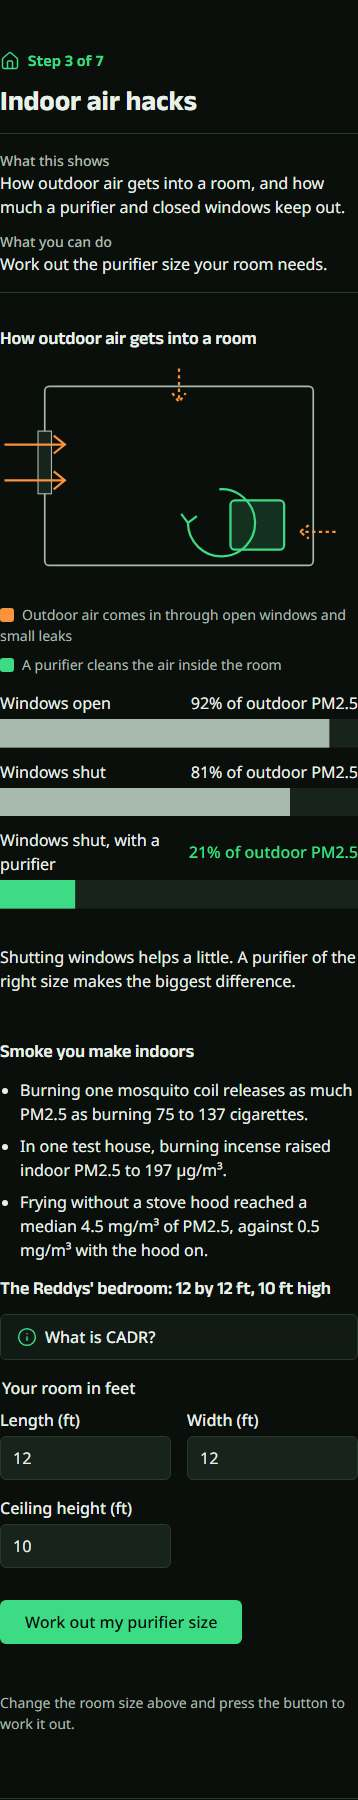
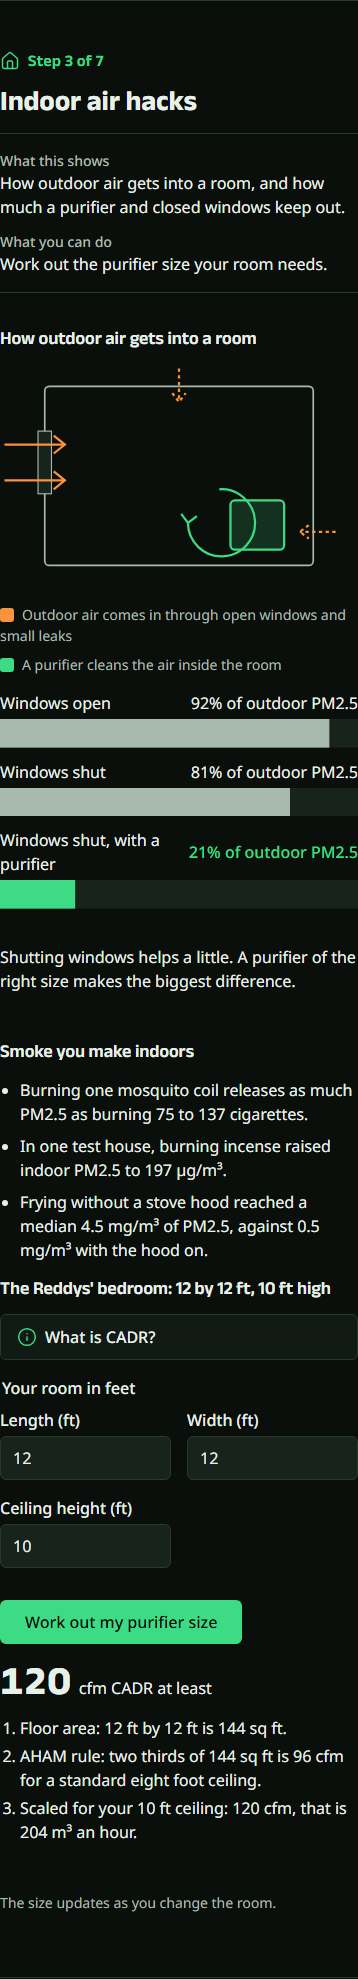
fix: chart window markers, instant purifier result, compact phone header
- Forecast chart (home and Today): the cleanest and dirtiest windows are
  outlined over their bars and bracketed above them with a label in words,
  in --accent and the dirtiest-window colour, matching the legend keys.
  The labels sit on separate rows so they never overlap. The markers never
  showed before: the window and forecast times were compared as strings
  ("...:00.000Z" against "...:00Z"); they are now matched by instant. The
  chart now scales evenly so the labels are not stretched.
- Purifier calculator: the result for the default room (the Reddys' 12 by
  12 ft bedroom, 10 ft ceiling) shows as soon as the section loads and
  updates as the inputs change; the button stays for keyboard users.
- Phone header (400 px and below): the wordmark, a compact language menu
  and a short "My plan" button stay on one row in en, hi and te.
- Playwright checks the markers and labels, the instant and live result,
  and the one-row header at 390 and 320 px in all three languages.
  Retook the routine and indoor screenshots and added phone header shots.
- No number, factor or formula changed.

diff --git a/src/client/ui/diagrams/forecast.ts b/src/client/ui/diagrams/forecast.ts
@@ -1,5 +1,6 @@
 // forecast.ts: The hourly PM2.5 forecast as a bar chart, with the cleanest and dirtiest windows
-// marked. The SVG is aria-hidden; the caption and the window lines beside it say the same in words.
+// outlined on the bars and bracketed above them with a label in words. The SVG is aria-hidden;
+// the caption and the window lines below it say the same in words.
 import type { NormalisedHourlyForecastItem } from "../../../shared/air-types.js";
 import { escapeHtml } from "../../../shared/escape.js";
 import type { WindowResult } from "../../../shared/impact.js";
@@ -9,10 +10,41 @@ import { bandForAqi } from "./bands.js";
 
 const KOLKATA_OFFSET_MS = 5.5 * 3600 * 1000;
 const W = 480;
-const H = 160;
+// Two label rows, so the two labels never overlap even when the windows are close.
+const ROW_H = 24;
+const LABEL_H = ROW_H * 2 + 6;
+const BARS_H = 150;
+const H = LABEL_H + BARS_H;
 
 const localHour = (iso: string) =>
   new Date(new Date(iso).getTime() + KOLKATA_OFFSET_MS).getUTCHours();
+
+/** Outline over the window's bars, and a bracket with a label above them. */
+function windowMarker(
+  w: WindowResult | null,
+  hours: readonly NormalisedHourlyForecastItem[],
+  slot: number,
+  kind: "clean" | "dirty",
+  label: string,
+): string {
+  if (!w) return "";
+  // Match on the instant: the forecast and the window format the same time differently.
+  const startMs = new Date(w.startTime).getTime();
+  const start = hours.findIndex((h) => new Date(h.time).getTime() === startMs);
+  if (start < 0) return "";
+  const span = Math.round((new Date(w.endTime).getTime() - startMs) / 3_600_000);
+  const x1 = start * slot;
+  const x2 = Math.min(W, (start + span) * slot);
+  const mid = (x1 + x2) / 2;
+  const anchor = mid < 70 ? "start" : mid > W - 70 ? "end" : "middle";
+  const tx = anchor === "start" ? x1 : anchor === "end" ? x2 : mid;
+  // Cleanest on the top row, dirtiest on the second; each bracket sits under its own label.
+  const y = (kind === "clean" ? ROW_H : ROW_H * 2) - 2;
+  return `
+    <rect class="d-window-${kind}" x="${x1.toFixed(1)}" y="${LABEL_H}" width="${(x2 - x1).toFixed(1)}" height="${BARS_H}" />
+    <path class="d-bracket-${kind}" d="M${x1.toFixed(1)} ${y + 6} V${y} H${x2.toFixed(1)} V${y + 6}" />
+    <text class="d-label-${kind}" x="${tx.toFixed(1)}" y="${y - 6}" text-anchor="${anchor}">${escapeHtml(label)}</text>`;
+}
 
 export function forecastChartHtml(
   hourly: readonly NormalisedHourlyForecastItem[],
@@ -24,43 +56,29 @@ export function forecastChartHtml(
   if (hours.length === 0) return `<p class="muted">${escapeHtml(t("today.noWindow"))}</p>`;
   const max = Math.max(...hours.map((h) => h.pm25), 1);
   const slot = W / hours.length;
-  const indexOf = (iso: string | undefined) => hours.findIndex((h) => h.time === iso);
-
-  const windowRect = (w: WindowResult | null, cls: string) => {
-    if (!w) return "";
-    const start = indexOf(w.startTime);
-    if (start < 0) return "";
-    const span = Math.round(
-      (new Date(w.endTime).getTime() - new Date(w.startTime).getTime()) / 3_600_000,
-    );
-    return `<rect class="${cls}" x="${(start * slot).toFixed(1)}" y="0" width="${(span * slot).toFixed(1)}" height="${H}" />`;
-  };
 
   const bars = hours
     .map((h, i) => {
-      const height = Math.max(2, (h.pm25 / max) * (H - 8));
+      const height = Math.max(2, (h.pm25 / max) * (BARS_H - 10));
       const band = h.aqi === undefined ? "Satisfactory" : bandForAqi(h.aqi);
       return `<rect class="d-bar ${bandClass(band)}" x="${(i * slot + 1).toFixed(1)}" y="${(H - height).toFixed(1)}" width="${Math.max(1, slot - 2).toFixed(1)}" height="${height.toFixed(1)}" />`;
     })
     .join("");
 
   const ticks = hours
-    .map((h, i) =>
-      i % 6 === 0
-        ? `<span class="tick" data-col="${i}">${hourLabel(localHour(h.time))}</span>`
-        : "",
-    )
+    .map((h, i) => (i % 6 === 0 ? `<span class="tick">${hourLabel(localHour(h.time))}</span>` : ""))
     .join("");
 
   return `
     <figure class="diagram forecast">
       <figcaption class="diagram-title">${escapeHtml(t("forecast.title", { hours: hours.length, pm: "PM2.5" }))}</figcaption>
-      <svg viewBox="0 0 ${W} ${H}" preserveAspectRatio="none" aria-hidden="true" focusable="false" class="forecast-svg">
-        ${windowRect(cleanest, "d-window-clean")}${windowRect(dirtiest, "d-window-dirty")}
+      <svg viewBox="0 0 ${W} ${H}" aria-hidden="true" focusable="false" class="forecast-svg">
         <line class="d-axis" x1="0" y1="${H - 0.5}" x2="${W}" y2="${H - 0.5}" />
         ${bars}
+        ${windowMarker(cleanest, hours, slot, "clean", t("today.cleanest"))}
+        ${windowMarker(dirtiest, hours, slot, "dirty", t("today.dirtiest"))}
       </svg>
-      <div class="forecast-ticks" aria-hidden="true" data-cols="${hours.length}">${ticks}</div>
+      <div class="forecast-ticks" aria-hidden="true">${ticks}</div>
       <ul class="forecast-legend">
         <li><span class="legend-key key-clean" aria-hidden="true"></span>${escapeHtml(t("today.cleanest"))}: <strong class="tabular-nums">${escapeHtml(windowText(cleanest) ?? t("today.noWindow"))}</strong></li>
         <li><span class="legend-key key-dirty" aria-hidden="true"></span>${escapeHtml(t("today.dirtiest"))}: <strong class="tabular-nums">${escapeHtml(windowText(dirtiest) ?? t("today.noWindow"))}</strong></li>

diff --git a/test/e2e/polish.spec.ts b/test/e2e/polish.spec.ts
@@ -1,0 +1,93 @@
+import { expect, openDemoFamily, test } from "./fixtures";
+
+test.describe("Chart window markers", () => {
+  test("home and Today outline and label the cleanest and dirtiest windows on the chart", async ({
+    page,
+  }) => {
+    for (const open of [
+      async () => {
+        await page.goto("/");
+        await page.waitForSelector("#routine .forecast-svg");
+      },
+      async () => openDemoFamily(page),
+    ]) {
+      await open();
+      const chart = page.locator(".forecast").first();
+      await expect(chart.locator(".d-window-clean")).toHaveCount(1);
+      await expect(chart.locator(".d-window-dirty")).toHaveCount(1);
+      await expect(chart.locator(".d-bracket-clean")).toHaveCount(1);
+      await expect(chart.locator(".d-label-clean")).toHaveText("Cleanest hours");
+      await expect(chart.locator(".d-label-dirty")).toHaveText("Dirtiest hours");
+      // The outline sits over real bars: it has width, and the legend words match the labels.
+      const width = Number(await chart.locator(".d-window-clean").getAttribute("width"));
+      expect(width).toBeGreaterThan(0);
+      await expect(chart.locator(".forecast-legend")).toContainText("Cleanest hours");
+    }
+  });
+});
+
+test.describe("Instant purifier result", () => {
+  test("shows the default room's size on load and updates as the inputs change", async ({
+    page,
+  }) => {
+    await page.goto("/");
+    await page.waitForSelector("#home-calc-result");
+    const result = page.locator("#home-calc-result");
+    // The Reddys' 12 by 12 ft bedroom with a 10 ft ceiling: 2/3 x 144 x 10/8 = 120 cfm.
+    await expect(result.locator(".big-number")).toHaveText("120");
+    await page.locator("#home-width").fill("15"); // 2/3 x 180 x 10/8 = 150
+    await expect(result.locator(".big-number")).toHaveText("150");
+    await page.locator("#home-height").fill("8"); // 2/3 x 180 = 120
+    await expect(result.locator(".big-number")).toHaveText("120");
+    await expect(page.locator("#home-calc-go")).toBeVisible();
+  });
+});
+
+test.describe("Compact phone header", () => {
+  for (const width of [390, 320]) {
+    for (const lang of ["en", "hi", "te"]) {
+      test(`${width} px, ${lang}: wordmark, language menu and plan button on one row`, async ({
+        page,
+      }) => {
+        await page.setViewportSize({ width, height: 800 });
+        await page.goto(`/?lang=${lang}`);
+        await page.waitForSelector("#start .g-title");
+        const boxes = await page.evaluate(() => {
+          const box = (sel: string) => {
+            const el = document.querySelector<HTMLElement>(sel);
+            if (!el || el.offsetParent === null) return null;
+            const r = el.getBoundingClientRect();
+            return { top: r.top, bottom: r.bottom, right: r.right };
+          };
+          return {
+            brand: box(".brand-wordmark"),
+            select: box("#lang-select"),
+            plan: box(".header-plan"),
+            buttons: box(".lang-switch"),
+            header: box(".site-header"),
+            vw: document.documentElement.clientWidth,
+          };
+        });
+        expect(boxes.select, "language menu shown").not.toBeNull();
+        expect(boxes.buttons, "language buttons hidden").toBeNull();
+        const rows = [boxes.brand, boxes.select, boxes.plan].map((b) => b?.top ?? -1);
+        const tallest = Math.max(
+          ...[boxes.brand, boxes.select, boxes.plan].map((b) => (b?.bottom ?? 0) - (b?.top ?? 0)),
+        );
+        // One row: every item starts within one item's height of the others, and none spills off screen.
+        expect(Math.max(...rows) - Math.min(...rows)).toBeLessThan(tallest);
+        expect(boxes.plan?.right ?? 0).toBeLessThanOrEqual(boxes.vw);
+        expect((boxes.header?.bottom ?? 0) - (boxes.header?.top ?? 0)).toBeLessThan(80);
+      });
+    }
+  }
+
+  test("the language menu switches the page language", async ({ page }) => {
+    await page.setViewportSize({ width: 390, height: 800 });
+    await page.goto("/");
+    await page.waitForSelector("#start .g-title");
+    await page.locator("#lang-select").selectOption("te");
+    await expect(page.locator("html")).toHaveAttribute("lang", "te");
+    await expect(page.locator("#lang-select")).toHaveValue("te");
+  });
+});

diff --git a/src/client/home/chrome.ts b/src/client/home/chrome.ts
@@ -9,12 +9,18 @@ export function renderHeader(): string {
       <div class="container header-inner">
         <a href="/" class="brand-wordmark">${escapeHtml(t("app.title"))}</a>
         <div class="header-actions">
+          <label class="sr-only" for="lang-select">${escapeHtml(t("header.language"))}</label>
+          <select id="lang-select" class="lang-select">
+            <option value="en" lang="en">English</option>
+            <option value="hi" lang="hi">हिन्दी</option>
+            <option value="te" lang="te">తెలుగు</option>
+          </select>
           <nav class="lang-switch" aria-label="${escapeHtml(t("header.language"))}">
             <button class="lang-btn" data-lang="en" lang="en" type="button">English</button>
             <button class="lang-btn" data-lang="hi" lang="hi" type="button">हिन्दी</button>
             <button class="lang-btn" data-lang="te" lang="te" type="button">తెలుగు</button>
           </nav>
-          <a href="#/setup" class="btn btn-primary btn-compact">${escapeHtml(t("header.planMyDay"))}</a>
+          <a href="#/setup" class="btn btn-primary btn-compact header-plan"><span class="label-long">${escapeHtml(t("header.planMyDay"))}</span><span class="label-short">${escapeHtml(t("header.planShort"))}</span></a>
         </div>
       </div>
     </header>`;
@@ -36,7 +42,7 @@ export function renderFooter(): string {
 }
 
 /**
- * Marks the current language and re-renders on a switch. The skip link moves focus to main
+ * Marks the current language (buttons, or the menu on phones) and re-renders on a switch. The skip link moves focus to main
  * without changing the hash route.
  */
 export function attachChrome(onLanguageChange: () => void): void {
@@ -49,6 +55,15 @@ export function attachChrome(onLanguageChange: () => void): void {
     }
     btn.addEventListener("click", async () => {
       await setLanguage(lang);
+      onLanguageChange();
+    });
+  }
+  // The compact language menu on phones.
+  const select = document.querySelector<HTMLSelectElement>("#lang-select");
+  if (select) {
+    select.value = current;
+    select.addEventListener("change", async () => {
+      await setLanguage(select.value as SupportedLang);
       onLanguageChange();
     });
   }

diff --git a/src/client/ui/calculator.ts b/src/client/ui/calculator.ts
@@ -31,7 +31,7 @@ export function calculatorHtml(prefix: string, room: RoomDefaults): string {
         ${numberField(`${prefix}-height`, t("calc.height"), room.heightFt, ROOM_LIMITS.heightMinFt, ROOM_LIMITS.heightMaxFt)}
       </fieldset>
       ${actionButton({ label: t("calc.button"), id: `${prefix}-calc-go`, submit: true })}
-      <div class="calc-result" id="${prefix}-calc-result" role="status" aria-live="polite"></div>
+      <div class="calc-result" id="${prefix}-calc-result" role="status" aria-live="polite">${calculatorResultHtml(room.lengthFt, room.widthFt, room.heightFt)}</div>
     </form>`;
 }
 
@@ -56,7 +56,10 @@ export function calculatorResultHtml(lengthFt: number, widthFt: number, heightFt
     </ol>`;
 }
 
-/** Wires the form: the submit button, or Enter in any field, works out the size and announces it. */
+/**
+ * Wires the form: the result shows for the default room from the start and updates as the inputs
+ * change; the submit button (or Enter) does the same for keyboard users.
+ */
 export function attachCalculator(root: HTMLElement, prefix: string): void {
   const form = root.querySelector<HTMLFormElement>(`#${prefix}-calc`);
   const out = root.querySelector<HTMLElement>(`#${prefix}-calc-result`);
@@ -66,6 +69,7 @@ export function attachCalculator(root: HTMLElement, prefix: string): void {
   const run = () => {
     out.innerHTML = calculatorResultHtml(value("length"), value("width"), value("height"));
   };
+  form.addEventListener("input", run);
   form.addEventListener("submit", (e) => {
     e.preventDefault();
     run();

diff --git a/src/client/styles/layout.css b/src/client/styles/layout.css
@@ -46,6 +46,56 @@
   flex-wrap: wrap;
 }
 
+.lang-select,
+.label-short {
+  display: none;
+}
+
+/* Phones (390 px and below): wordmark, a compact language menu and "Plan my day" on one row. */
+@media (max-width: 400px) {
+  .header-inner {
+    flex-wrap: nowrap;
+    gap: var(--space-8);
+  }
+
+  .brand-wordmark {
+    font-size: var(--text-md);
+  }
+
+  .header-actions {
+    flex-wrap: nowrap;
+    gap: var(--space-8);
+  }
+
+  .lang-switch,
+  .label-long {
+    display: none;
+  }
+
+  .label-short {
+    display: inline;
+  }
+
+  .lang-select {
+    display: block;
+    min-height: var(--tap);
+    max-width: 7.5rem;
+    padding: var(--space-4) var(--space-8);
+    background: var(--surface-2);
+    color: var(--ink);
+    border: 1px solid var(--rule);
+    border-radius: var(--radius);
+    font: inherit;
+    font-size: var(--text-xs);
+  }
+
+  .header-plan {
+    padding: var(--space-8) var(--space-12);
+    font-size: var(--text-xs);
+    white-space: nowrap;
+  }
+}
+
 /* Footer */
 .site-footer {
   border-top: 1px solid var(--rule);

diff --git a/src/client/styles/diagrams.css b/src/client/styles/diagrams.css
@@ -28,21 +28,50 @@
   opacity: 0.85;
 }
 
+/* Window markers: an outline over the window's bars and a labelled bracket above them,
+   in the same colours as the legend keys below the chart. */
 .d-window-clean {
-  fill: var(--accent-soft);
+  fill: var(--accent);
+  fill-opacity: 0.12;
   stroke: var(--accent);
-  stroke-width: 1;
+  stroke-width: 2;
 }
 
 .d-window-dirty {
-  fill: transparent;
+  fill: var(--band-poor);
+  fill-opacity: 0.1;
   stroke: var(--band-poor);
-  stroke-width: 1;
-  stroke-dasharray: 4 3;
+  stroke-width: 2;
+  stroke-dasharray: 6 4;
 }
 
-.forecast-svg {
-  height: 180px !important;
+.d-bracket-clean,
+.d-bracket-dirty {
+  fill: none;
+  stroke-width: 2.5;
+}
+
+.d-bracket-clean {
+  stroke: var(--accent);
+}
+
+.d-bracket-dirty {
+  stroke: var(--band-poor);
+}
+
+.d-label-clean,
+.d-label-dirty {
+  font-family: var(--font-head);
+  font-weight: 600;
+  font-size: 16px;
+}
+
+.d-label-clean {
+  fill: var(--accent);
+}
+
+.d-label-dirty {
+  fill: var(--band-poor);
 }
 
 .forecast-ticks {

diff --git a/test/e2e/layout.spec.ts b/test/e2e/layout.spec.ts
@@ -97,8 +97,9 @@ for (const name of ["home", "today"] as const) {
       els.map((el) => el.getBoundingClientRect()).map((r) => [r.width, r.height]),
     );
     for (const [w, h] of sizes) {
-      expect(w).toBeGreaterThanOrEqual(44);
-      expect(h).toBeGreaterThanOrEqual(44);
+      // Half a pixel for sub-pixel layout (43.9998 is a 44 px box mid-transition).
+      expect(w).toBeGreaterThanOrEqual(43.5);
+      expect(h).toBeGreaterThanOrEqual(43.5);
     }
   });
 }
